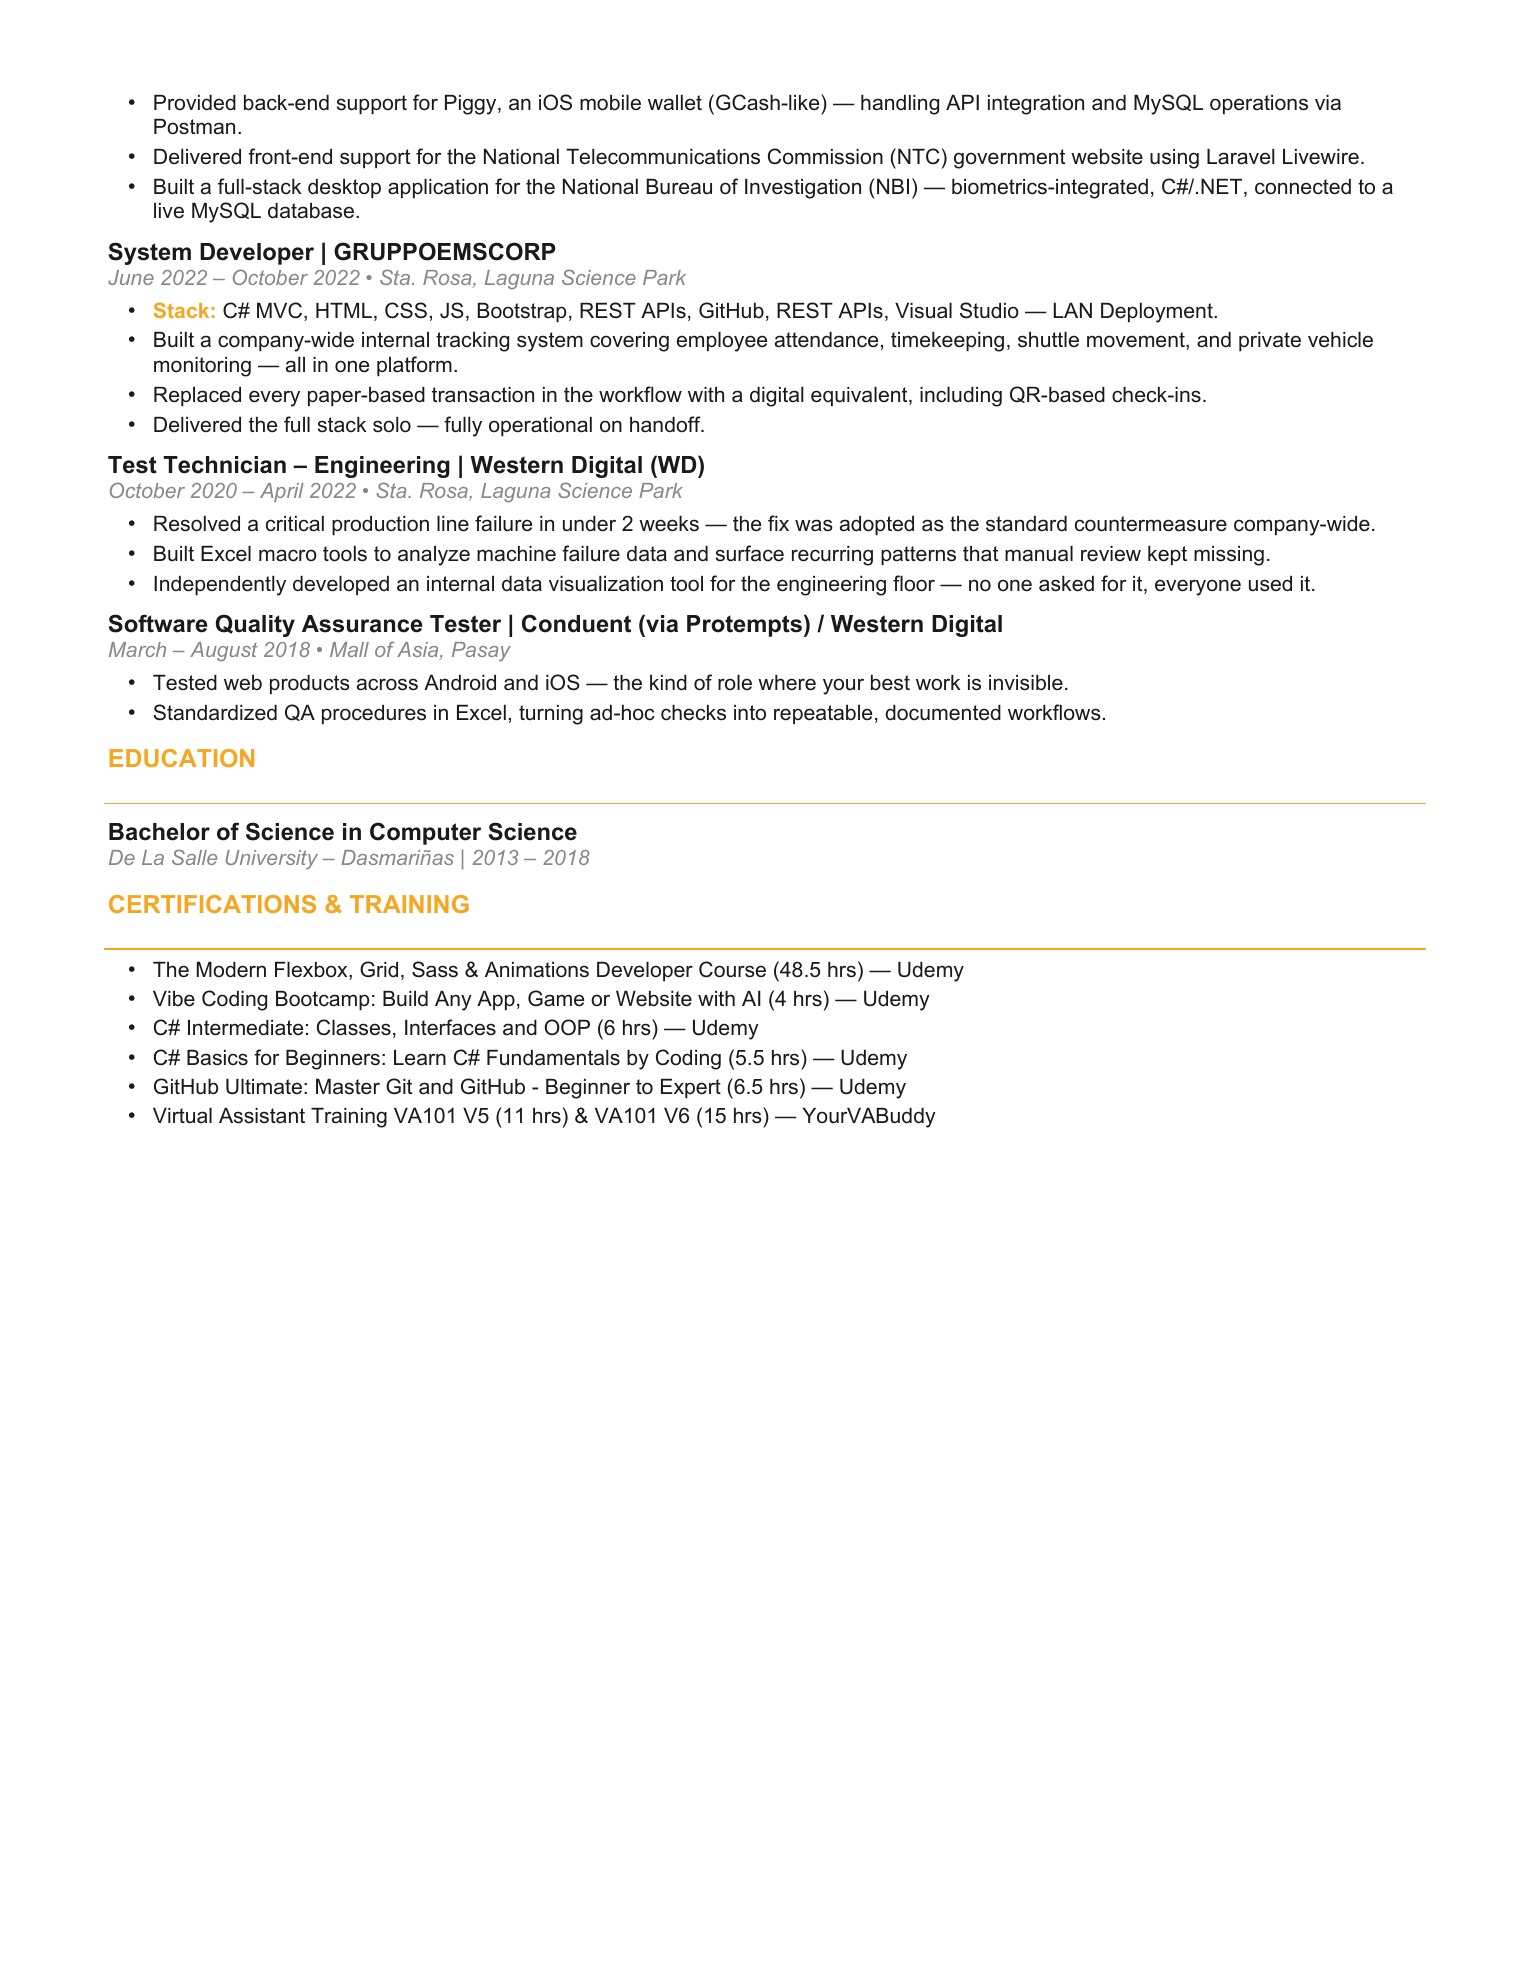
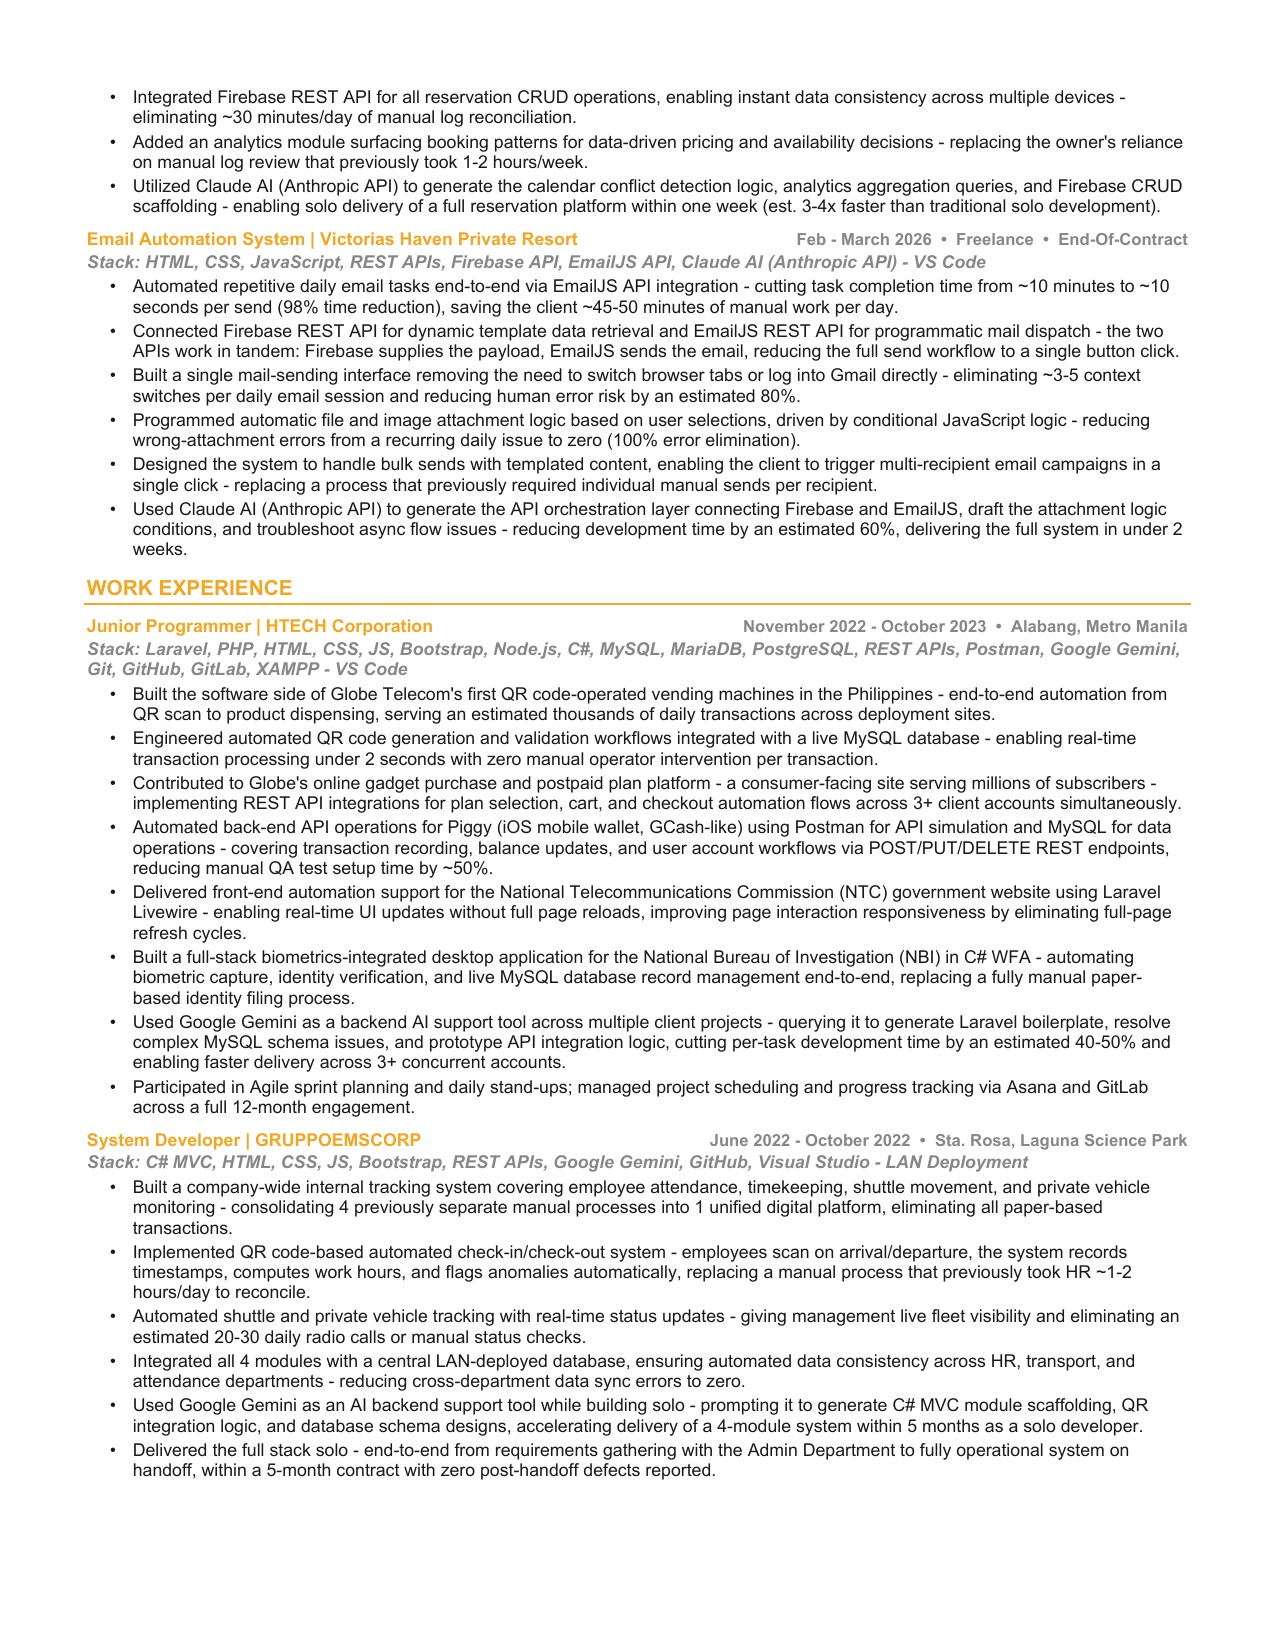
Update ATS resume preview images (3 pages) and page count

Changed region(s): [[0.0612, 0.0309, 0.9176, 0.8964]]

diff --git a/js/script.js b/js/script.js
@@ -305,7 +305,7 @@ if (toolsSection) {
   const pageNum     = document.getElementById('pageNum');
 
   const tabConfig = {
-    standard: { prefix: 'resume_previews/ats-page-',    ext: '.jpg', total: 2 },
+    standard: { prefix: 'resume_previews/ats-page-',    ext: '.jpg', total: 3 },
     visual:   { prefix: 'resume_previews/ENHANCE CURRICULUM VITAE_', ext: '.jpg', total: 7 }
   };
 
